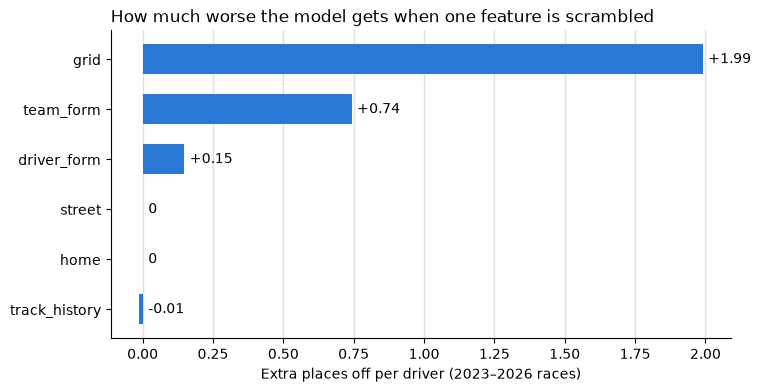
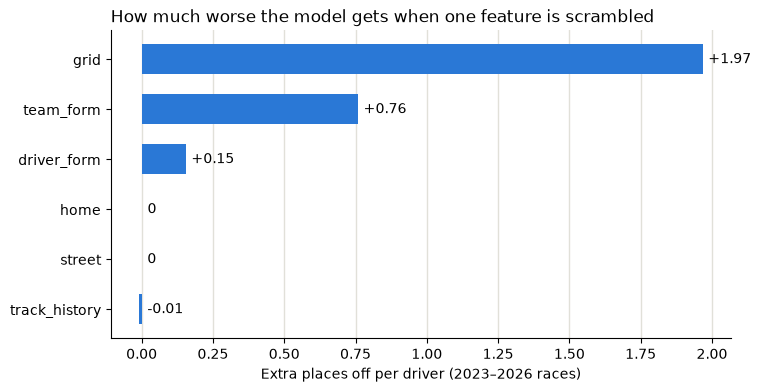
4.1: Update conclusions and README after the review fixes
Track specialists no longer pass the shuffle test, label the 2.28
score as the full model's, note street tracks couldn't be tested in
the model, and refresh the feature-importance chart.

diff --git a/README.md b/README.md
@@ -9,14 +9,14 @@ A beginner data-science project on Formula 1 results from 1950 to 2026. It explo
 - **The grid comes first.** Finishing order follows starting order more closely than ever (a grid-to-finish link of 0.70–0.77 since the 1990s). It's by far the model's most useful feature.
 - **The car comes second.** Since 2000, the top team of each decade has won 47–49% of that decade's races, and team form is the model's next most useful feature.
 - **The driver's own form adds only a little** once the grid and the team are known.
-- **The popular stories barely matter.** Grid position isn't more important at Monaco, pit stops haven't gotten faster overall, the home crowd helps in qualifying but not in the race, and track specialists exist but the effect is small.
+- **The popular stories barely matter.** Grid position isn't more important at Monaco, pit stops haven't gotten faster overall, the home crowd helps in qualifying but not in the race, and there's no clear sign of track specialists.
 
 ![Grid vs. finish position by decade: since the 1990s the dots hug the diagonal, so most finishers end up close to where they started](images/grid_vs_finish.png)
 *Grid vs. finish position by decade (Part 1.4). The closer the dots sit to the dashed line, the more the finish follows the grid.*
 
-The model beats "finish = grid" across the whole field (2.28 places off against 2.49 on the 2023–2026 races), but not at the front: its pick won 56 of 89 races, against 54 for the pole sitter. Who wins among the front-runners comes down to things this data doesn't capture.
+The full model beats "finish = grid" across the whole field (2.28 places off against 2.49 on the 2023–2026 races), but not at the front: its pick won 56 of 89 races, against 54 for the pole sitter. Who wins among the front-runners comes down to things this data doesn't capture.
 
-![Feature importance: scrambling grid adds about 2 places of error, team form 0.74, driver form 0.15, and street, home and track history nothing](images/feature_importance.png)
+![Feature importance: scrambling grid adds about 2 places of error, team form 0.76, driver form 0.15, and street, home and track history nothing](images/feature_importance.png)
 *What the model relies on (Part 3.5): how many places worse its predictions get when each feature is scrambled.*
 
 The full answer, limitations and next steps are in [`notebooks/05_conclusions.ipynb`](notebooks/05_conclusions.ipynb).
@@ -30,7 +30,7 @@ The full answer, limitations and next steps are in [`notebooks/05_conclusions.ip
 | Does grid position matter more at Monaco? | No: a link of 0.64 at Monaco against 0.65 elsewhere |
 | Have pit stops gotten faster? | No, not in total time lost in the pit lane (2011–2026) |
 | Is there a home advantage? | Partly: drivers start 0.23 places higher at home, but don't finish any better |
-| Are there track specialists? | Yes, but the effect is small and mostly luck |
+| Are there track specialists? | No clear sign: results at a track are about as spread out as luck alone makes them |
 | Can a model beat "finish = grid"? | Slightly: 0.2 places closer per driver (not luck), with no gain at the front |
 | What does the model rely on? | Grid position, then team form, then a little driver form |
 
